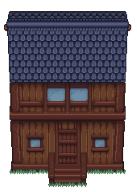
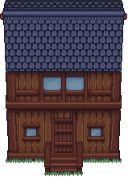
Trim whitespace and slightly shrink building graphics and respective row/col size

diff --git a/core/src/main/java/org/ate/unisim/main/buildings/Accommodation.java b/core/src/main/java/org/ate/unisim/main/buildings/Accommodation.java
@@ -8,8 +8,8 @@ public class Accommodation extends Building {
         super();
 
         type = Types.ACCOMMODATION;
-        rows = 12;
-        cols = 12;
+        rows = 9;
+        cols = 9;
         filename = "accommodation.png";
     }
 }

diff --git a/core/src/main/java/org/ate/unisim/main/buildings/LectureHall.java b/core/src/main/java/org/ate/unisim/main/buildings/LectureHall.java
@@ -8,8 +8,8 @@ public class LectureHall extends Building {
         super();
 
         type = Types.LECTURE_HALL;
-        rows = 9;
-        cols = 12;
+        rows = 8;
+        cols = 11;
         filename = "lecture-hall.png";
     }
 }

diff --git a/core/src/main/java/org/ate/unisim/main/buildings/Cafe.java b/core/src/main/java/org/ate/unisim/main/buildings/Cafe.java
@@ -8,8 +8,8 @@ public class Cafe extends Building {
         super();
 
         type = Types.CAFE;
-        rows = 12;
-        cols = 14;
+        rows = 9;
+        cols = 11;
         filename = "cafe.png";
     }
 }

diff --git a/core/src/main/java/org/ate/unisim/main/buildings/Gym.java b/core/src/main/java/org/ate/unisim/main/buildings/Gym.java
@@ -8,8 +8,8 @@ public class Gym extends Building {
         super();
 
         type = Types.GYM;
-        rows = 14;
-        cols = 8;
+        rows = 10;
+        cols = 6;
         filename = "gym.png";
     }
 }
